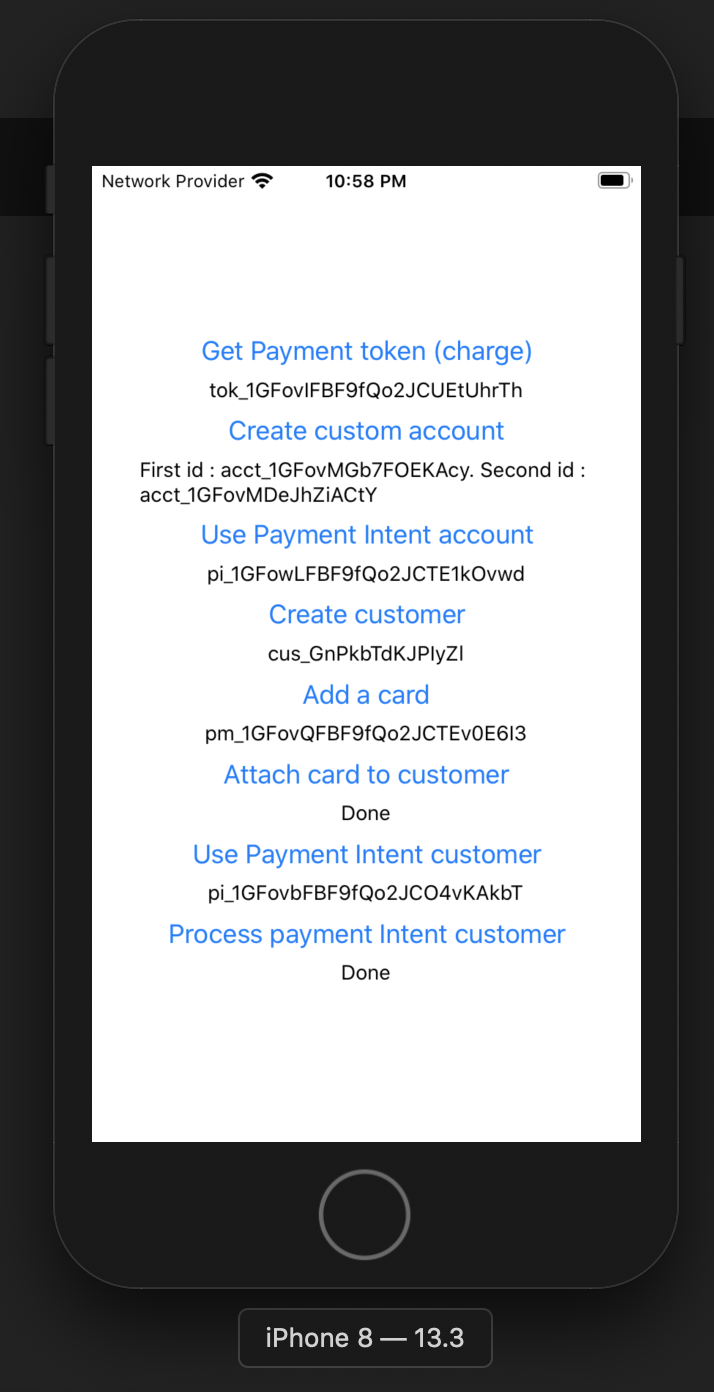
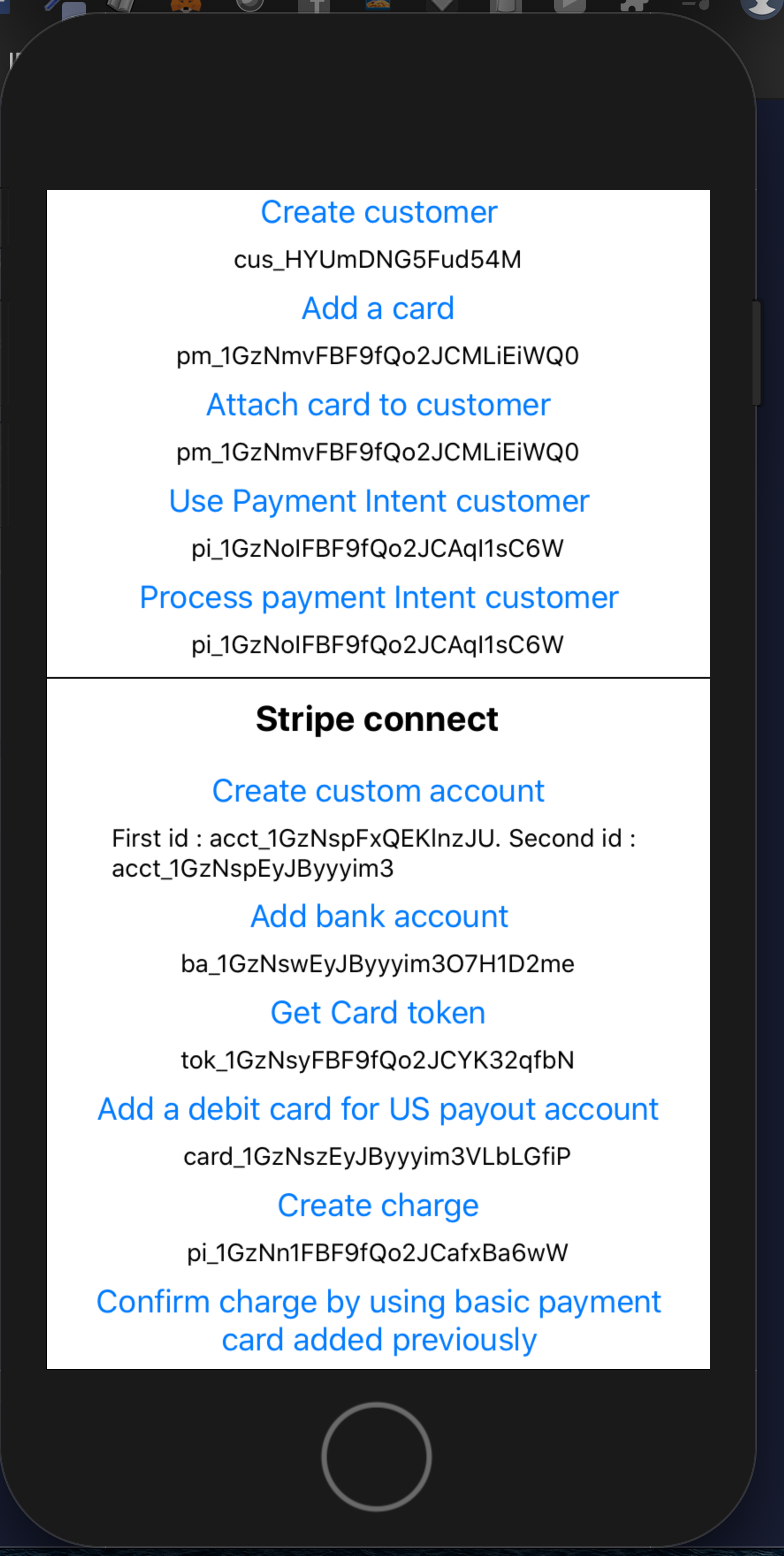
push

diff --git a/front-end/App.js b/front-end/App.js
@@ -23,6 +23,7 @@ export default function App() {
   const [ibanId, setIbanId] = useState('');
   const [cardId, setCardId] = useState('');
   const [transferId, setTransferId] = useState('');
+  const [confirmIntent, setConfirmIntent] = useState('');
 
   useEffect(() => {
   }, [])
@@ -36,24 +37,25 @@ export default function App() {
         year: 1998
       },
       address: {
-          line1: "Place de la concorde",
-          city: "Paris",
-          state: "France",
-          postal_code: "75001",
+          line1: "327 Bridge Street",
+          city: "Tulsa",
+          state: "OK",
+          postal_code: "74146",
       },
       email: "max@sisilafamille.fr",
       first_name: "Maxime",
       last_name: "Gfr",
       gender: "male",
-      phone: "+33612345678"
+      phone: "918-510-2938",
+      ssn_last_4: "0000"
     }
     var business_profile = {
       mcc: '7311',
       url: 'https://app.sinaps.io/@max'
     }
     var promises = [];
-    promises.push(stripe.createStripeAccount("FR", "custom", "max@sisilafamille.fr", ["card_payments", "transfers"], 'individual', info, business_profile));
-    promises.push(stripe.createStripeAccount("FR", "custom", "contact@sisilafamille.fr", ["card_payments", "transfers"], 'individual', info, business_profile));
+    promises.push(stripe.createStripeAccount("US", "custom", "max@sisilafamille.fr", ["card_payments", "transfers"], 'individual', info, business_profile));
+    promises.push(stripe.createStripeAccount("US", "custom", "contact@sisilafamille.fr", ["card_payments", "transfers"], 'individual', info, business_profile));
     Promise.all(promises).then((res) => {
       //console.log(res[0], res[1]);
       var id_one = res[0].id;
@@ -68,9 +70,19 @@ export default function App() {
 
   _onPaymentIntent = () => {
     let stripe = StripeConnector.getInstance();
-    stripe.createPaymentIntent(15000, 'eur', ['card'], '{ORDER10}', 1000, id1).then((res) => {
+    stripe.createPaymentIntent(9900, 'eur', ['card'], '{ORDER10}', 1000, id1, customerId).then((res) => {
       //console.log(res);
       setChargeId(res.id)
+    }).catch((err) => {
+      console.log(err);
+    })
+  }
+
+  _onConfirmIntent = () => {
+    let stripe = StripeConnector.getInstance();
+    stripe.processPayment(paymentMethodId, chargeId).then((res) => {
+      //console.log(res);
+      setConfirmIntent(res.id)
     }).catch((err) => {
       console.log(err);
     })
@@ -96,7 +108,7 @@ export default function App() {
 
   _addCard = () => {
     let stripe = StripeConnector.getInstance();
-    stripe.createPaymentMethodCard('4242424242424242', 5, 2021, '223').then((res) => {
+    stripe.createPaymentMethodCard('4000000000003097', 5, 2021, '233').then((res) => {
       //console.log(res);
       setPaymentMethodId(res.id)
     }).catch((err) => {
@@ -108,15 +120,15 @@ export default function App() {
     let stripe = StripeConnector.getInstance();
     stripe.attachPaymentMethodCard(paymentMethodId, customerId).then((res) => {
       //console.log(res);
-      setAttach("Done");
+      setAttach(res.id);
     }).catch((err) => {
       console.log(err);
     })
   }
 
-  _onPaymentIntentCustomer = () => {
+  _onPaymentCustomer = () => {
     let stripe = StripeConnector.getInstance();
-    stripe.paymentIntentsCustomer(15000, 'eur', ['card']).then((res) => {
+    stripe.paymentIntentsCustomer(15000, 'eur', ['card'], customerId).then((res) => {
       //console.log(res);
       setPaymentIntentCustomerId(res.id)
     }).catch((err) => {
@@ -126,7 +138,7 @@ export default function App() {
 
   _onAddBankAccount = () => {
     let stripe = StripeConnector.getInstance();
-    stripe.addBankAccount(id2, 'DE', 'EUR', 'DE89370400440532013000').then((res) => {
+    stripe.addBankAccount(id2, 'US', 'USD', '000123456789', '111000000').then((res) => {
       //console.log(res);
       setIbanId(res.id)
     }).catch((err) => {
@@ -148,7 +160,7 @@ export default function App() {
     let stripe = StripeConnector.getInstance();
     stripe.processPayment(paymentMethodId, paymentIntentCustomerId).then((res) => {
       //console.log(res);
-      setProcessPayment("Done")
+      setProcessPayment(res.id)
     }).catch((err) => {
       console.log(err);
     })
@@ -197,7 +209,7 @@ export default function App() {
       let stripe = StripeConnector.getInstance();
       stripe.addFileVerification(result.uri, id2).then((res) => {
         console.log(res);
-        setVerifId(res.Id)
+        setVerifId(res.email)
       }).catch((err) => {
         console.log(err);
       })
@@ -208,6 +220,20 @@ export default function App() {
   return (
     <ScrollView contentContainerStyle={{ flexGrow: 1, backgroundColor: '#fff', alignItems: 'center', justifyContent: 'center' }}>
 
+      <Text style={{fontSize: 20, fontWeight: 'bold', marginVertical: 10}}>Stripe basic</Text>
+      <Button onPress={_onCreateCustomer} title="Create customer"/>
+      <Text>{customerId}</Text>
+      <Button onPress={_addCard} title="Add a card"/>
+      <Text>{paymentMethodId}</Text>
+      <Button onPress={_attachCard} title="Attach card to customer"/>
+      <Text>{attach}</Text>
+      <Button onPress={_onPaymentCustomer} title="Use Payment Intent customer"/>
+      <Text>{paymentIntentCustomerId}</Text>
+      <Button onPress={_onProcessPaymentCustomer} title="Process payment Intent customer"/>
+      <Text>{processPayment}</Text>
+
+      <View style={{width: windowWidth, height: 1, backgroundColor: 'black', marginTop: 10 }} />
+      <Text style={{fontSize: 20, fontWeight: 'bold', marginVertical: 10}}>Stripe connect</Text>
       <Button onPress={_onCreateCustomAccount} title="Create custom account"/>
       <Text>{accountId}</Text>
       <Button onPress={_onAddBankAccount} title="Add bank account"/>
@@ -216,27 +242,20 @@ export default function App() {
       <Text>{token}</Text>
       <Button onPress={_onAddCard} title="Add a debit card for US payout account"/>
       <Text>{cardId}</Text>
-      <Button onPress={_onTopUp} title="Top up for US account"/>
-      <Text>{topUp}</Text>
-      <Button onPress={_onPaymentIntent} title="Use Payment Intent account"/>
+      {/*
+        <Button onPress={_onTopUp} title="Top up for US account"/>
+        <Text>{topUp}</Text>
+        <Button onPress={_onTransfer} title="Create a transfer for US account"/>
+        <Text>{transferId}</Text>
+      */}
+      <Button onPress={_onPaymentIntent} title="Create charge"/>
       <Text>{chargeId}</Text>
-      <Button onPress={_onTransfer} title="Create a transfer for US account"/>
-      <Text>{transferId}</Text>
+      <Button onPress={_onConfirmIntent} title="Confirm charge by using basic payment card added previously"/>
+      <Text>{confirmIntent}</Text>
+
       <Button onPress={_onVerifyAccount} title="Verify account"/>
       <Text>{verifId}</Text>
 
-      <View style={{width: windowWidth, height: 1, backgroundColor: 'black' }} />
-
-      <Button onPress={_onCreateCustomer} title="Create customer"/>
-      <Text>{customerId}</Text>
-      <Button onPress={_addCard} title="Add a card"/>
-      <Text>{paymentMethodId}</Text>
-      <Button onPress={_attachCard} title="Attach card to customer"/>
-      <Text>{attach}</Text>
-      <Button onPress={_onPaymentIntentCustomer} title="Use Payment Intent customer"/>
-      <Text>{paymentIntentCustomerId}</Text>
-      <Button onPress={_onProcessPaymentCustomer} title="Process payment Intent customer"/>
-      <Text>{processPayment}</Text>
 
     </ScrollView>
   );

diff --git a/front-end/lib/stripe.js b/front-end/lib/stripe.js
@@ -35,13 +35,20 @@ export default class StripeConnector {
       callback(card);
     }
 
-    addFileVerification(file, accountId) {
+    addFileVerification(file, account_id) {
       return new Promise((resolve, reject) => {
         this.uploadDocument(file).then((res) => {
           var body = {
-            accountId: accountId,
+            account_id: account_id,
             data: {
-              file: res.id
+              individual: {
+                verification: {
+                  document: {
+                    front: res.id,
+                    back: null
+                  }
+                },
+              }
             }
           }
           fetch(BASE_URL+"updateAccount", {
@@ -74,13 +81,7 @@ export default class StripeConnector {
     createStripeAccount(country, type, email, requested_capabilities, business_type, individual, business_profile) {
       return new Promise((resolve, reject) => {
         var body = {
-          country: country,
-          type: type,
-          email: email,
-          requested_capabilities: requested_capabilities,
-          business_type: business_type,
-          business_profile: business_profile,
-          individual: individual
+          country, type, email, requested_capabilities, business_type, individual, business_profile
         }
         fetch(BASE_URL+"createStripeAccount", {
           body: JSON.stringify(body),
@@ -90,15 +91,10 @@ export default class StripeConnector {
       });
     }
 
-    createPaymentIntent(amount, currency, payment_method_types, transfer_group, application_fee_amount, destination) {
+    createPaymentIntent(amount, currency, payment_method_types, transfer_group, application_fee_amount, destination, customer) {
       return new Promise((resolve, reject) => {
         var body = {
-          amount: amount,
-          currency: currency,
-          payment_method_types: payment_method_types,
-          transfer_group: transfer_group,
-          application_fee_amount: application_fee_amount,
-          destination: destination
+          amount, currency, payment_method_types, transfer_group, application_fee_amount, destination, customer
         }
         fetch(BASE_URL+"paymentIntents", {
           body: JSON.stringify(body),
@@ -152,14 +148,12 @@ export default class StripeConnector {
       });
     }
 
-    paymentIntentsCustomer(amount, currency, payment_method_types) {
+    paymentIntentsCustomer(amount, currency, payment_method_types, customer) {
       return new Promise((resolve, reject) => {
         var body = {
-          amount: amount,
-          currency: currency,
-          payment_method_types: payment_method_types
+          amount, currency, payment_method_types, customer
         }
-        fetch(BASE_URL+"paymentIntents", {
+        fetch(BASE_URL+"paymentIntentsCustomer", {
           body: JSON.stringify(body),
           headers: { 'Content-type': 'application/json' },
           method: "POST"
@@ -167,11 +161,10 @@ export default class StripeConnector {
       });
     }
 
-    processPayment(paymentMethodId, paymentId) {
+    processPayment(paymentMethodId, paymentId ) {
       return new Promise((resolve, reject) => {
         var body = {
-          paymentMethodId: paymentMethodId,
-          paymentId: paymentId
+          paymentMethodId, paymentId
         }
         fetch(BASE_URL+"confirmPaymentIntents", {
           body: JSON.stringify(body),
@@ -192,9 +185,9 @@ export default class StripeConnector {
       });
     }
 
-    addBankAccount(account_id, country, currency, account_number) {
+    addBankAccount(account_id, country, currency, account_number, routing_number) {
       return new Promise((resolve, reject) => {
-        var body = { account_id, country, currency, account_number }
+        var body = { account_id, country, currency, account_number, routing_number }
         fetch(BASE_URL+"addBankAccount", {
           body: JSON.stringify(body),
           headers: { 'Content-type': 'application/json' },

diff --git a/back-end/index.js b/back-end/index.js
@@ -81,6 +81,7 @@ app.post('/paymentIntents', (req, res, next) => {
     payment_method_types: req.body.payment_method_types,
     transfer_group: req.body.transfer_group,
     application_fee_amount: req.body.application_fee_amount,
+    customer: req.body.customer,
     transfer_data: {
       destination: req.body.destination
     }
@@ -115,6 +116,7 @@ app.post('/paymentIntentsCustomer', (req, res, next) => {
   stripe.paymentIntents.create({
     amount: req.body.amount,
     currency: req.body.currency,
+    customer: req.body.customer,
     payment_method_types: req.body.payment_method_types
   }).then((resultat) => {
     console.log(resultat)
@@ -202,7 +204,8 @@ app.post('/addBankAccount', (req, res, next) => {
       country: req.body.country,
       currency: req.body.currency,
       account_number: req.body.account_number,
-      account_holder_type: "individual"
+      account_holder_type: "individual",
+      routing_number: req.body.routing_number
     }
   }).then((resultat) => {
     console.log(resultat)
